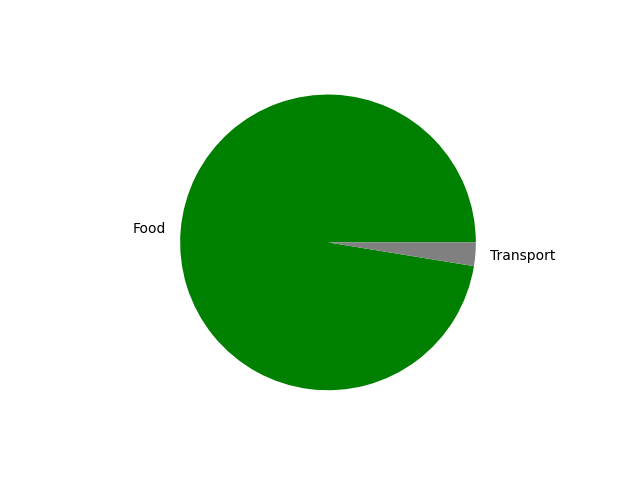
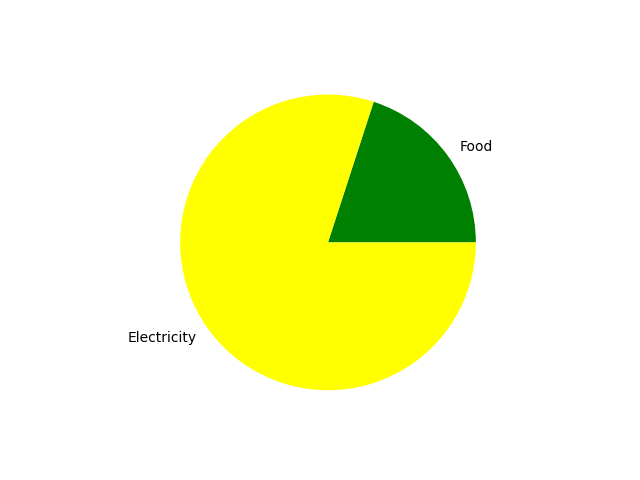
piechart?

diff --git a/Chart.py b/Chart.py
@@ -3,9 +3,35 @@ import Chart
 import numpy as np
 import matplotlib.pyplot as plt
 
+from cloudant.client import Cloudant
+from cloudant.error import CloudantException
+from cloudant.result import Result, ResultByKey
+import cloudant
 
-class MakeChart:
+client = Cloudant.iam('5861e444-61ce-4c94-8d14-a94dfa36ede3-bluemix',
+                      'R9ePmy_llFF4gTtBPQROafzl4Ee2xALLiMzTWeCCnn13', connect=True)
+client.connect()
 
-    def piechart(data, chartLabels, chartColors):
-        plt.pie(data, labels=chartLabels, colors=chartColors)
-        plt.savefig('piechart.png')
+
+def piechart():
+    doc = client['user']['userCo2']
+    data = []
+    chartLabels = []
+    chartColors = []
+    if float(doc['food']) != 0:
+        data.append(float(doc['food']))
+        chartLabels.append('Food')
+        chartColors.append('green')
+    if float(doc['transport']) != 0:
+        data.append(float(doc['food']))
+        chartLabels.append('Transport')
+        chartColors.append('grey')
+    if float(doc['electricity']) != 0:
+        data.append(float(doc['electricity']))
+        chartLabels.append('Electricity')
+        chartColors.append('yellow')
+    plt.pie(data, labels=chartLabels, colors=chartColors)
+    plt.savefig('piechart.png')
+
+
+piechart()

diff --git a/main.py b/main.py
@@ -1,4 +1,5 @@
 import GetData as d
+import SendData as s
 import Chart
 import numpy as np
 import matplotlib.pyplot as plt
@@ -8,10 +9,10 @@ import matplotlib.pyplot as plt
 #     print(emission)
 
 
-emission = np.array([float(d.GetItem.get_food('Burger')),
-                     float(d.GetItem.get_transport('liten'))])
-chartLabels = ['Food', 'Transport']
-chartColors = ['green', 'grey']
+# emission = np.array([float(d.GetItem.get_food('Burger')),
+#                      float(d.GetItem.get_transport('liten'))])
+# chartLabels = ['Food', 'Transport']
+# chartColors = ['green', 'grey']
 
 if __name__ == '__main__':
-    Chart.MakeChart.piechart(emission, chartLabels, chartColors)
+    s.sendCo2(15, 'food')

diff --git a/SendData.py b/SendData.py
@@ -12,9 +12,6 @@ client.connect()
 
 def sendCo2(amount, type):
     doc = client['user']['userCo2']
-    tempDoc = doc
-    doc.delete_database()
-    tempVal =
-
-
-sendCo2(20, 'food')
+    tempVal = doc[type]
+    doc[type] = str(float(tempVal) + float(amount))
+    doc.save()
